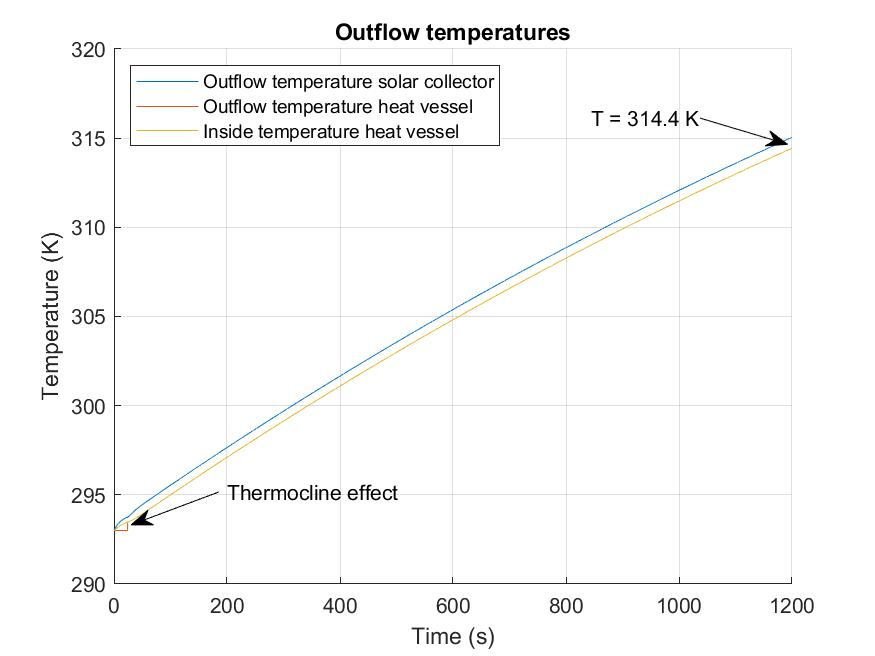
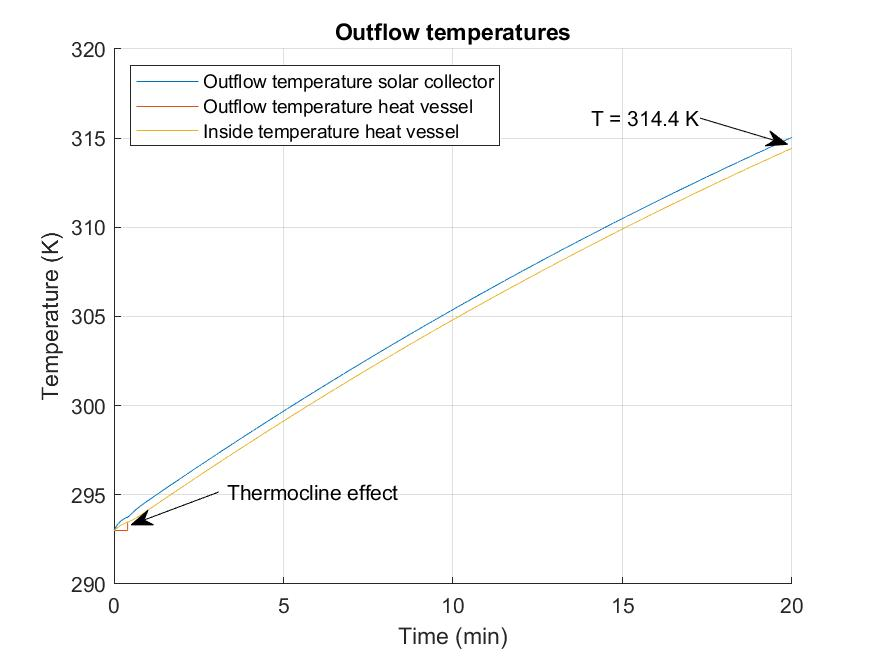
changed constant flow rate to minutes

diff --git a/constantFlowrate.m b/constantFlowrate.m
@@ -285,7 +285,7 @@ end
 %Plotting%
 %%%%%%%%%%
 
-t_var=T_SC_table(1,:);          %Time variable
+t_var=T_SC_table(1,:)/60;          %Time variable
 T_SC_var=T_SC_table(2,:);       %Outflow temperature solar collector
 T_HV_var=T_HV_table(2,:);       %Outflow temperature heat vessel
 T_HV_inside = T_HV_table(4,:);  %Inside temperature heat vessel
@@ -303,7 +303,7 @@ annotation('textarrow', [0.25 0.15], [0.25 0.2], 'String', 'Thermocline effect')
 ylabel('Temperature (K)')
 legend({'Outflow temperature solar collector','Outflow temperature heat vessel','Inside temperature heat vessel'}, 'Location','northwest')
 
-xlim([0 t_end]);
-xlabel('Time (s)')
+xlim([0 t_end/60]);
+xlabel('Time (min)')
 title('Outflow temperatures')
 saveas(gcf,'Constantflow_temperature.jpg')
